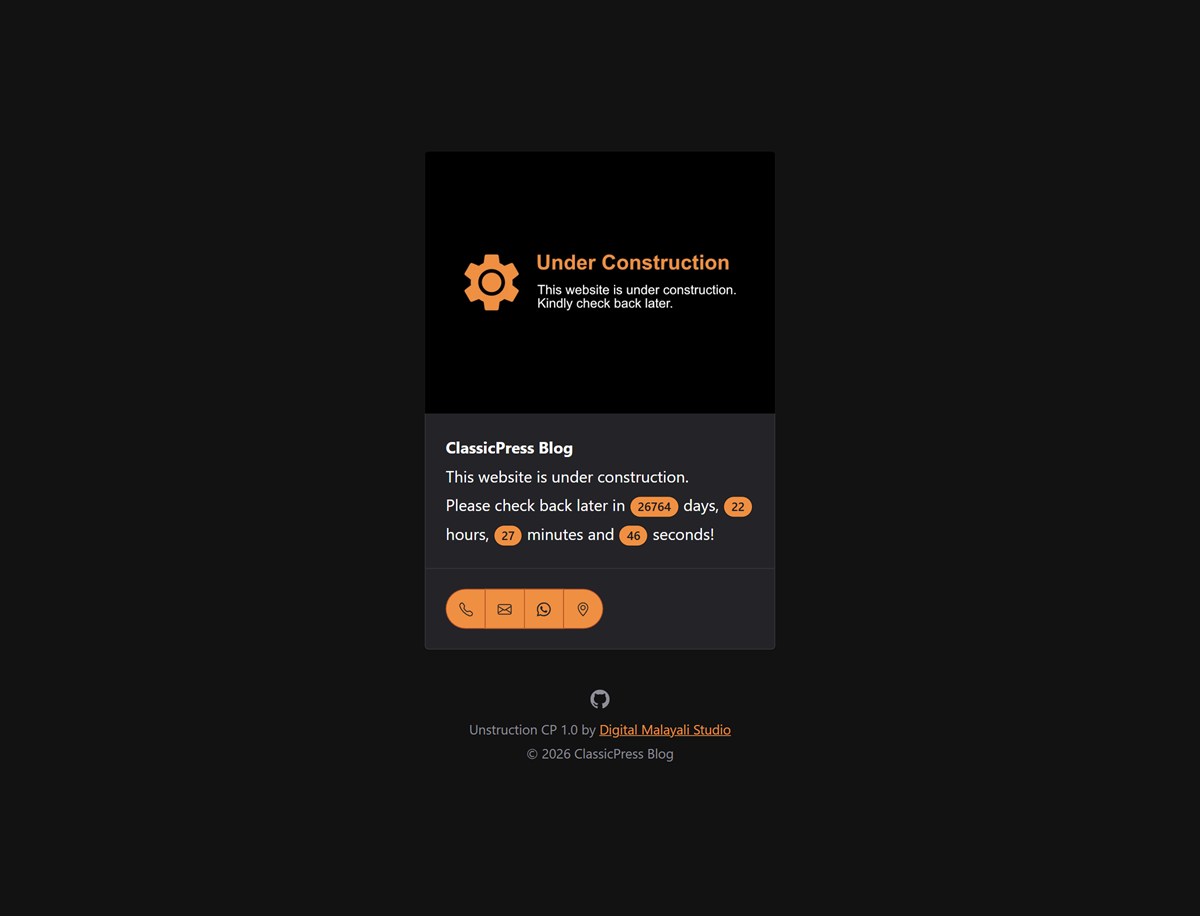
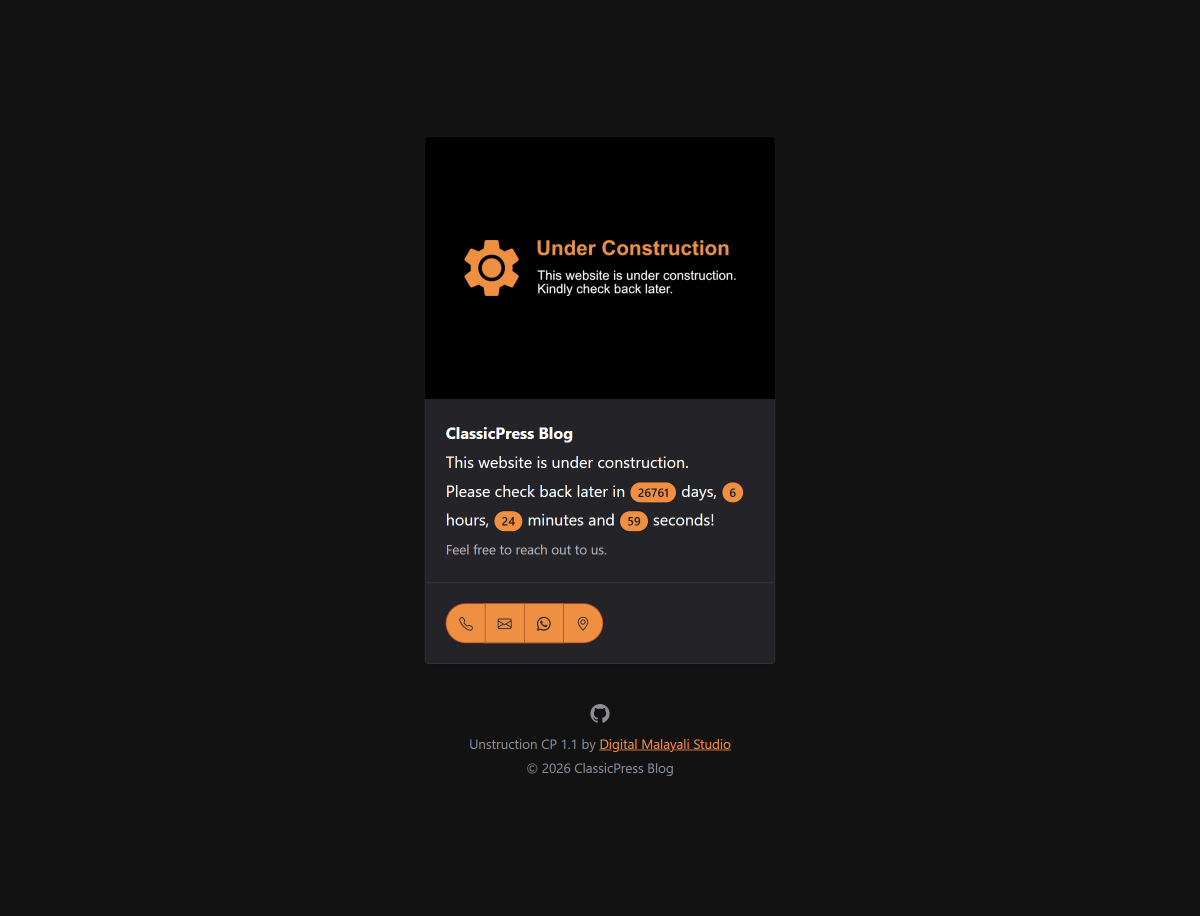
feat: add credits option

diff --git a/style.css b/style.css
@@ -3,12 +3,12 @@ Theme Name: Unstruction CP
 Theme URI: https://github.com/DigitalMalayaliStudio/unstruction-classicpress-theme
 Author: Digital Malayali Studio
 Author URI: https://studio.digitalmalayali.in/
-Description: A free ClassicPress theme for quickly setting up a "Coming Soon," "Under Construction," or "Under Maintenance" page. Built with Shoelace web components, it includes a countdown timer to show visitors when your site will launch or reopen, and it's lightweight, responsive, and automatically adapts to light or dark mode. Unstruction is perfect for a new launch, a redesign, or scheduled maintenance, with a clean, professional placeholder page you can publish in minutes.
+Description: A free ClassicPress theme for quickly setting up an "Under Construction" or "Under Maintenance" page. Built with Shoelace web components, it includes a countdown timer to show visitors when your site will launch or reopen, and it's lightweight, responsive, and automatically adapts to light or dark mode. Unstruction is perfect for a new launch, a redesign, or scheduled maintenance, with a clean, professional placeholder page you can publish in minutes.
 Requires at least: 4.9
 Requires CP: 1.2
-Tested up to: 2.7.2
+Tested up to: 2.7.3
 Requires PHP: 7.4
-Version: 1.0
+Version: 1.1
 License: GNU General Public License v3
 License URI: https://www.gnu.org/licenses/gpl-3.0.html
 Text Domain: unstruction-cp

diff --git a/index.php b/index.php
@@ -16,17 +16,13 @@
     <meta charset="<?php bloginfo('charset'); ?>">
     <meta name="viewport" content="width=device-width, initial-scale=1.0">
     <?php if (get_theme_mod('unstruction_cp_mode', 'construction') === 'maintenance') : ?>
-        <meta name="description"
-            content="This website is undergoing maintenance. Please check back later.">
+        <meta name="description" content="This website is undergoing maintenance. Please check back later.">
         <meta property="og:title" content="<?php bloginfo('name'); ?> - Undergoing Maintenance">
-        <meta property="og:description"
-            content="This website is undergoing maintenance. Please check back later.">
+        <meta property="og:description" content="This website is undergoing maintenance. Please check back later.">
     <?php else : ?>
-        <meta name="description"
-            content="This website is under construction. Please check back later.">
+        <meta name="description" content="This website is under construction. Please check back later.">
         <meta property="og:title" content="<?php bloginfo('name'); ?> - Under Construction">
-        <meta property="og:description"
-            content="This website is under construction. Please check back later.">
+        <meta property="og:description" content="This website is under construction. Please check back later.">
     <?php endif; ?>
     <meta property="og:type" content="website">
     <meta property="og:url" content="<?php echo esc_url(get_home_url()); ?>">
@@ -78,6 +74,7 @@
         $location = get_theme_mod('unstruction_cp_location', 'https://example.com');
         ?>
         <?php if (!empty($phone) || !empty($email) || !empty($whatsapp) || !empty($location)) : ?>
+            <br><small>Feel free to reach out to us.</small>
             <div slot="footer">
                 <sl-button-group label="Alignment">
                     <?php if (!empty($phone)) : ?>
@@ -111,11 +108,17 @@
         <?php endif; ?>
     </sl-card>
 
-    <small class="copyright"><sl-icon-button name="github" label="Settings" style="font-size: 1.2rem;"
-            href="https://github.com/digitalmalayalistudio/unstruction-classicpress-theme/"
-            target="_blank"></sl-icon-button><br><?php echo esc_html(wp_get_theme()->get('Name') . ' ' . wp_get_theme()->get('Version')); ?> by
-        <a href="<?php echo esc_url('http://studio.digitalmalayali.in/'); ?>">Digital Malayali Studio</a><br>
-        &copy; <?php echo esc_html(gmdate('Y') . ' ' . get_bloginfo('name')); ?></small>
+    <small class="copyright">
+        <?php if (get_theme_mod('unstruction_cp_credits', false)) : ?>
+            <sl-icon-button name="github" label="GitHub" style="font-size: 1.2rem;"
+                href="https://github.com/digitalmalayalistudio/unstruction-classicpress-theme/"
+                target="_blank"></sl-icon-button><br><?php echo esc_html(wp_get_theme()->get('Name') . ' ' . wp_get_theme()->get('Version')); ?> by
+            <a href="<?php echo esc_url('https://studio.digitalmalayali.in/'); ?>" target="_blank" rel="noopener noreferrer">Digital Malayali Studio</a><br>
+        <?php else : ?>
+            Powered by <?php echo esc_html(wp_get_theme()->get('Name') . ' ' . wp_get_theme()->get('Version')); ?><br>
+        <?php endif; ?>
+        &copy; <?php echo esc_html(gmdate('Y') . ' ' . get_bloginfo('name')); ?>
+    </small>
     <?php wp_footer(); ?>
 </body>
 

diff --git a/inc/customizer.php b/inc/customizer.php
@@ -163,6 +163,20 @@ function unstruction_cp_customize_register($wp_customize)
         'section'     => 'unstruction_cp_configuration_section',
         'label'       => __('Location (URL)', 'unstruction-cp'),
     ));
+
+    // Credits
+    $wp_customize->add_setting('unstruction_cp_credits', array(
+        'type'              => 'theme_mod',
+        'default'           => false,
+        'sanitize_callback' => 'wp_validate_boolean',
+    ));
+
+    $wp_customize->add_control('unstruction_cp_credits', array(
+        'type'        => 'checkbox',
+        'section'     => 'unstruction_cp_configuration_section',
+        'label'    => __('Show Credits', 'unstruction-cp'),
+        'description' => __('Check if you\'d like to show credits for the theme author.', 'unstruction-cp'),
+    ));
 }
 
 add_action('customize_register', 'unstruction_cp_customize_register');

diff --git a/functions.php b/functions.php
@@ -44,6 +44,7 @@ function unstruction_cp_enqueue_styles_scripts()
 		true
 	);
 
+	// Pass the target date & time to script.js
 	$date_time = get_theme_mod('unstruction_cp_date_time', '2100-01-01T00:00');
 
 	$data = array(

diff --git a/README.md b/README.md
@@ -1,14 +1,14 @@
 # Unstruction CP
 
-A free ClassicPress theme for quickly setting up a "Coming Soon," "Under Construction," or "Under Maintenance" page. Built with Shoelace web components, it includes a countdown timer to show visitors when your site will launch or reopen, and it's lightweight, responsive, and automatically adapts to light or dark mode.
+A free ClassicPress theme for quickly setting up an "Under Construction" or "Under Maintenance" page. Built with Shoelace web components, it includes a countdown timer to show visitors when your site will launch or reopen, and it's lightweight, responsive, and automatically adapts to light or dark mode.
 
 ![Unstruction CP](screenshot.png)
 
-**Version**: 1.0  
+**Version**: 1.1  
 **Contributors**: Digital Malayali Studio  
 **Requires at least**: 4.9     
 **Requires CP**: 1.2  
-**Tested up to**: 2.7.2  
+**Tested up to**: 2.7.3  
 **Requires PHP**: 7.4  
 **Text Domain**: unstruction-cp  
 **Tags**: one-column  
@@ -23,12 +23,26 @@ A free ClassicPress theme for quickly setting up a "Coming Soon," "Under Constru
 - **Contact Details:** Option to show the necessary contact info.
 - **Dark Mode Support:** Automatically chooses dark/light mode based on user's system preference.
 - **Lightweight & Fast:** Minimal assets and zero bloat.
+- **SEO Friendly:** Uses all the necessary Open Graph tags for metadata.
+
+## Installation
+
+1. Download the theme ZIP file.
+2. Log in to your ClassicPress or WordPress dashboard.
+3. Navigate to **Appearance > Themes**.
+4. Click **Add New**, then **Upload Theme**.
+5. Select the ZIP file and click **Install Now**.
+6. **Activate** the theme.
 
 ## How to Customize
 
 Go to **Appearance > Customize > Configuration** to customize Unstruction. From there, you can set the site mode, featured image, countdown date and time, theme color, and contact details. If you don't want your contact details to appear, leave them blank.
 
 ## Changelog
+
+### 1.1
+- Added an option to show credits
+- Tested up to 2.7.3
 
 ### 1.0
 - Initial release
